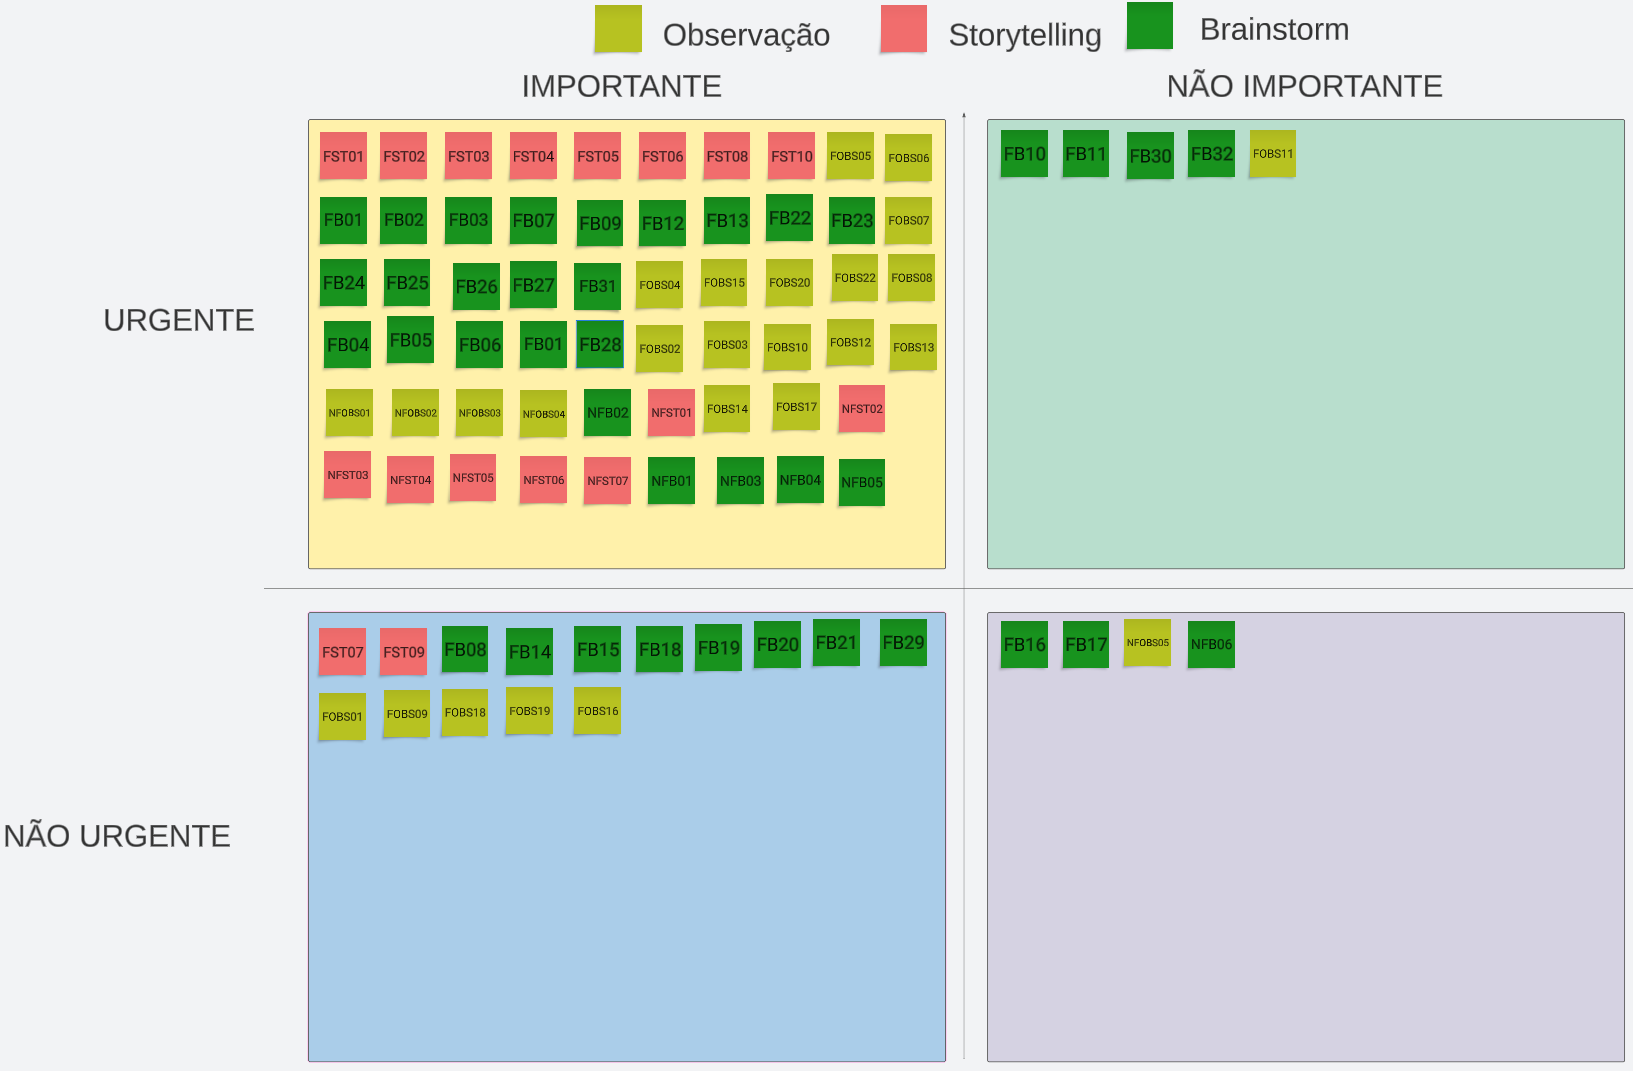
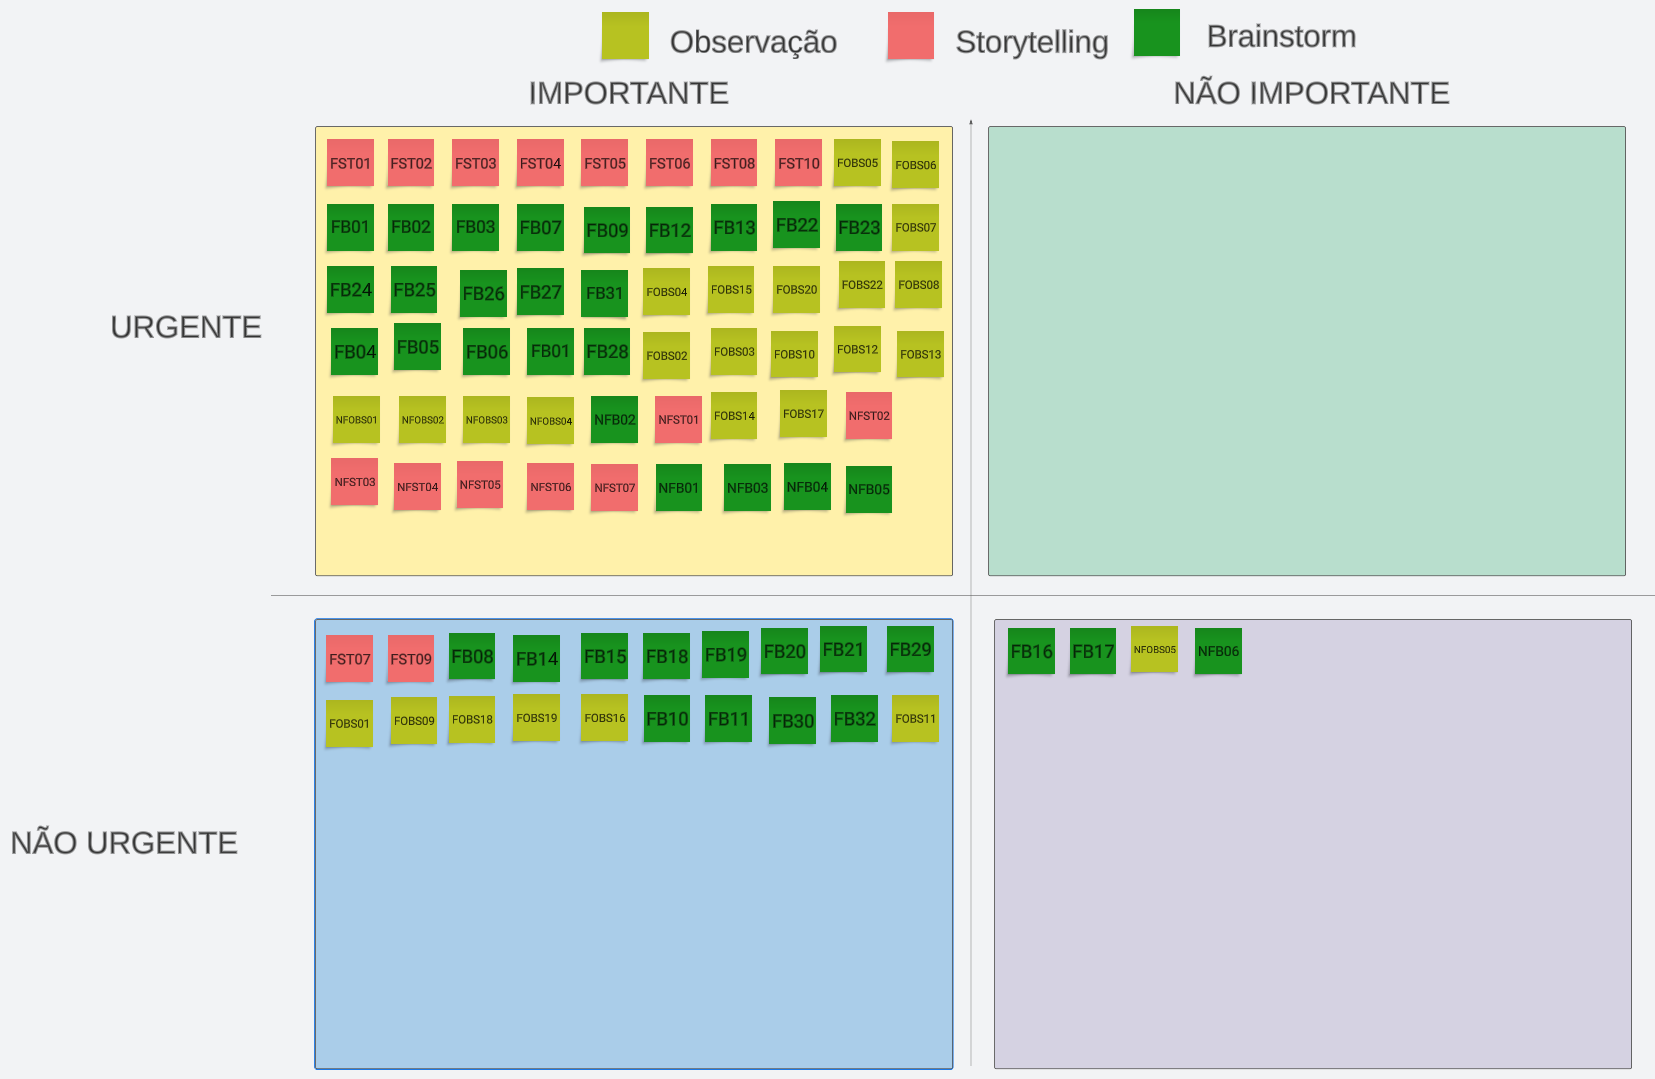
Adicionando vídeo da gravacao do three level-scale

Changed region(s): [[0.1874, 0.0, 0.9994, 1.0], [0.0, 0.7703, 0.1562, 0.8011], [0.0625, 0.2773, 0.1562, 0.3389]]

diff --git a/docs/elicitacao/threeLevelScale.md b/docs/elicitacao/threeLevelScale.md
@@ -41,6 +41,14 @@ Para a aplicação do three-level scale, será utilizada a ténica de interpreta
 
 No fim do Three Level-Scale, obtimos o seguinte resultado encontrado na figura 2, vale ressaltar que por mais que alguns requisitos, na gravação foram colocadas como não importante e não urgente, na finalização, foram movidos estes requisitos para o terceiro quadrante, você consegue acessar esse arquivo em: [LucidChart](https://lucid.app/lucidspark/dd8cc0ff-db66-442f-bbb2-f3ff08a9e4e0/edit?viewport_loc=-2726%2C-2007%2C6405%2C3357%2C0_0&invitationId=inv_70208c40-ba78-49d5-85f0-ccbb38edb092)
 
+### Entrevista com o usuário
+
+Conforme indicado na Tabela 1, os membros do projeto realizaram a análise das necessidades dos usuários, o que permitiu definir a seguinte ordem de prioridade, conforme descrito no Vídeo 1:
+
+**[Video do Three Level-Scale](https://www.youtube.com/watch?v=4dyfl386uHo)**
+
+<iframe width="560" height="315" src="https://www.youtube.com/watch?v=4dyfl386uHo" title="YouTube video player" frameborder="0" allow="accelerometer; autoplay; clipboard-write; encrypted-media; gyroscope; picture-in-picture; web-share" allowfullscreen></iframe>
+
 <img src="../../images/threeLevelScale/lucidchartPronto.png"/>
 <div style="text-align: center">
 <p>Figura 2 - Resultados do Three Level-Scale</p>
